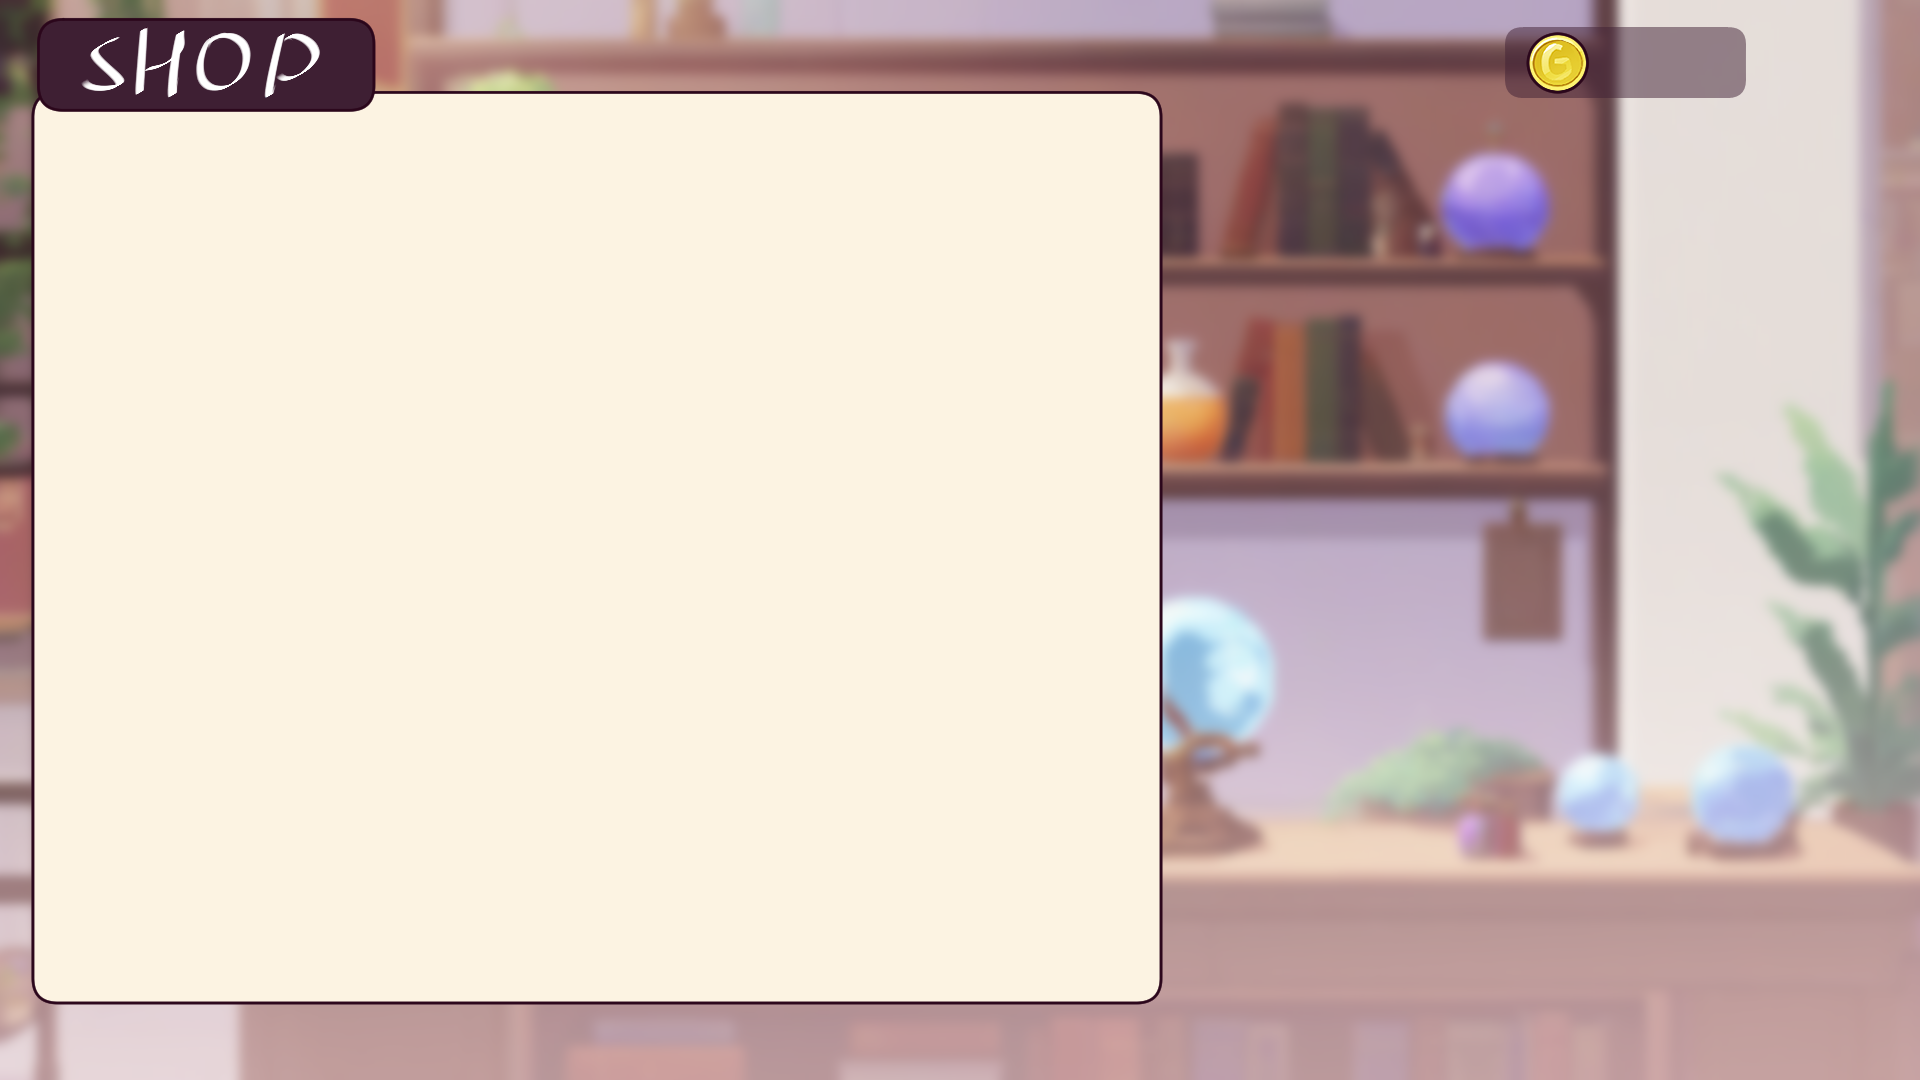
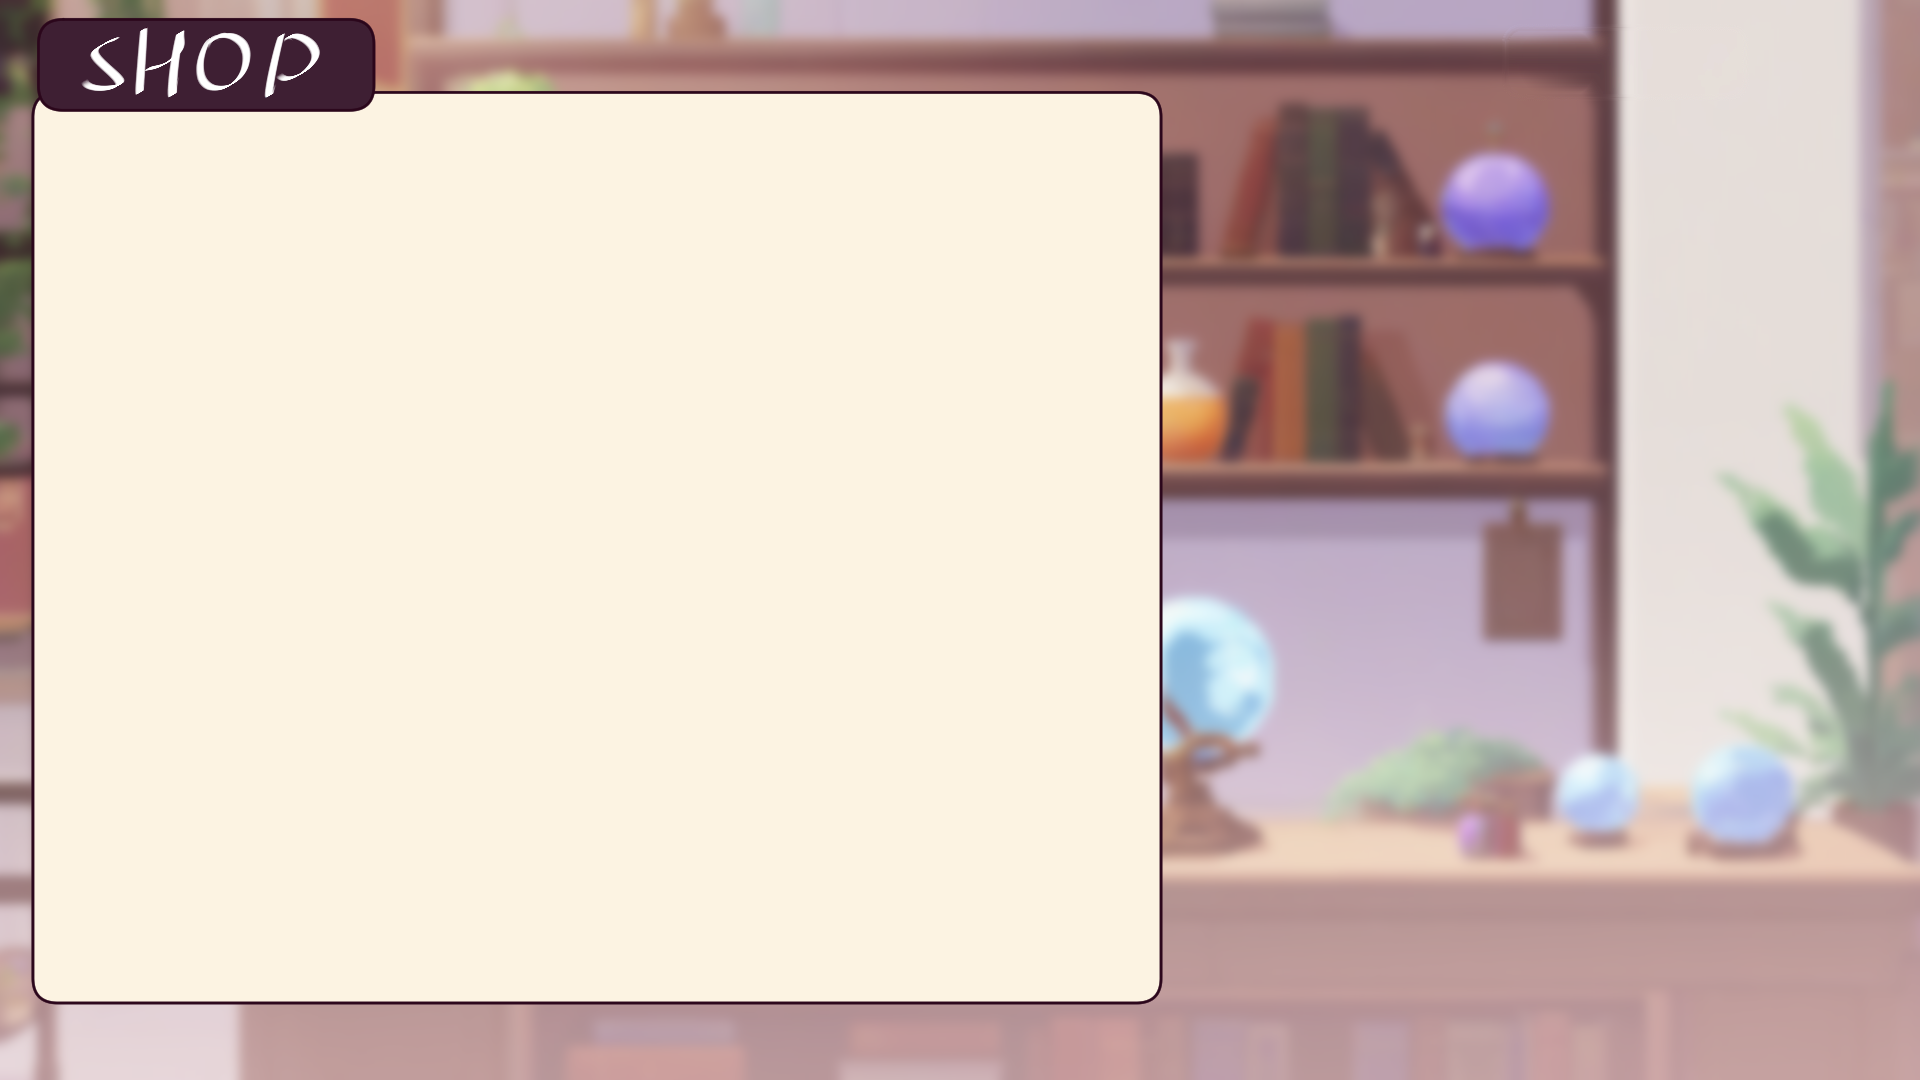
0.50.72

Changed region(s): [[0.7812, 0.0, 0.9062, 0.0917]]

diff --git a/PATCH_NOTES.md b/PATCH_NOTES.md
@@ -872,3 +872,10 @@ CardBattle.gd (1909 строк) разрезан, теперь это «дири
 - **Горшки:** в начале 4, остальные (до 8) — покупать у Рикки: 40 / 60 / 80 / 100 зол. (`FarmState.BASE_POTS`, `POT_PRICES`). В старых сохранениях занятые горшки не пропадают.
 - **Котёл:** у Рикки «Котёл получше» (120) и «Котёл мастера» (240): зелья и еда с шансом 25% / 50% варятся вдвое (`AlchemyDB.CAULDRON_*`). Посохи не удваиваются.
 - Горшок и котёл появляются на полке Рикки после забега с шансом 50% / 35% (`DungeonRun.RIKKA_POT_CHANCE`, `RIKKA_CAULDRON_CHANCE`), в сумку не кладутся — срабатывают сразу. Цветку их не скормить.
+
+## step72 (поверх step71)
+- **Новая игра без котла:** котёл покупается у Рикки («Котёл», 60 зол.; пока его нет — он на полке всегда). До покупки в доме не видно слоя с котлом (homeBG_L2 — котёл с ковриком), по месту котла не кликается, кнопка «Алхимия» в меню потускневшая и не нажимается.
+- Уровни котла: 0 — нет, 1 — «Котёл» (60), 2 — «Котёл получше» (120, ×2 с шансом 25%), 3 — «Котёл мастера» (240, 50%). Настройки — `AlchemyDB.CAULDRON_*`.
+- **Горшки:** в начале 2, остальные — у Рикки: 20 / 30 / 40 / 60 / 80 / 100 зол. (`FarmState.BASE_POTS`, `POT_PRICES`).
+- **Старые сохранения** (версия сохранения теперь 3): котёл даётся сразу (уровень +1), горшков столько же, сколько было.
+- **Лавка Рикки:** золото — плашка goldStatus в правом верхнем углу бежевой подложки (`Shop.tscn` → `Panel/GoldStatus`, двигайте в редакторе). Нарисованное на фоне окошко с золотом убрано из ShopBG.png.
